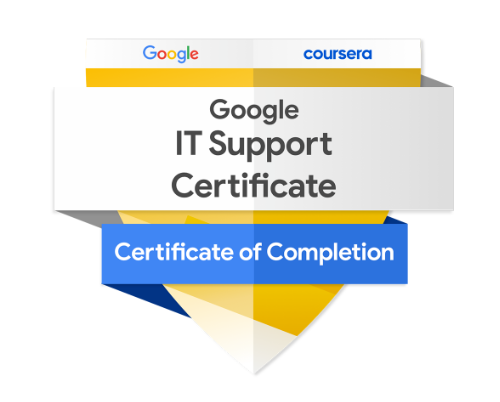
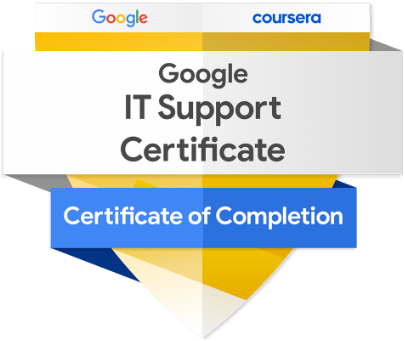
Fixed certification badges and the section is now complete. Updated the contact form to work with formspree and tested functionality.

diff --git a/index.html b/index.html
@@ -101,19 +101,43 @@
             <div class="certifications-container">
               <h4>Certifications</h4>
               <div class="certifications">
-                  <!-- Cert 1 -->
+                  <!-- Cert 1 AWS -->
                   <div class="cert-badge">
-                    <a href="https://www.udacity.com/certificate/PYNTCXJK" target="_blank">
-                        <img src="Images/Certifications/Nanodegree.png" width="150" height="150" alt="Udacity Data Analyst Nanodegree">
+                    <a href="https://www.credly.com/badges/51310572-53c8-43c4-8822-d49db5e1a944/linked_in_profile" target="_blank">
+                        <img src="Images/Certifications/AWS CP.png" width="130" height="130" alt="AWS Cloud Practitioner Certificate">
                     </a>
                   </div>
-                  <!-- Cert 2 -->
-                  <div class="cert-badge>
-                    <a href="https://www.credly.com/badges/51310572-53c8-43c4-8822-d49db5e1a944/linked_in_profile" target="_blank">
-                        <img src="Images/Certifications/AWS CP.png" width="160" height="160" alt="AWS Cloud Practitioner Certificate">
+                  <!-- Cert 2 Nanodegree -->
+                  <div class="cert-badge">
+                    <a href="https://www.udacity.com/certificate/PYNTCXJK" target="_blank">
+                        <img src="Images/Certifications/Nanodegree.png" width="130" height="130" alt="Udacity Data Analyst Nanodegree">
                     </a>
-                  </div>  
-                
+                  </div>
+                  <!-- Cert 3 Project+ -->
+                  <div class="cert-badge">
+                    <a href="https://www.credly.com/badges/f07c26db-89c8-484f-805c-824eaed1cbb5/linked_in_profile" target="_blank">
+                        <img src="Images/Certifications/Project+.png" width="130" height="130" alt="CompTIA Project+ Certificate">
+                    </a>
+                  </div>
+                  <!-- Cert 4 ITIL -->
+                  <div class="cert-badge">
+                    <a href="https://www.peoplecert.org/for-corporations/certificate-verification-service" target="_blank">
+                        <img src="Images/Certifications/ITIL4.png" width="130" height="130" alt="ITIL Foundation Certificate">
+                    </a>
+                  </div>
+                  <!-- Cert 5 CIW -->
+                  <div class="cert-badge">
+                    <a href="https://cp.certmetrics.com/ciwcerts/en/public/verify/credential/53de07882578441384a1ec2a8a30bfe6" target="_blank">
+                        <img src="Images/Certifications/CIW.jpg" width="120" height="120" alt="CIW Data Analyst Specialist Certificate">
+                    </a>
+                  </div>
+                  <!-- Cert 6 Google IT -->  
+                  <div class="cert-badge">
+                    <a href="https://www.credly.com/badges/4a7d4752-eb0a-4c03-8c67-96dcc66715d3?source=linked_in_profile" target="_blank">
+                        <img src="Images/Certifications/Google IT.png" width="130" height="120" alt="Google IT Support Certification">
+                    </a>
+                  </div>
+
               </div>
             </div>          
           </div>
@@ -277,7 +301,7 @@
             <h2 class="white-text">Contact Me</h2>
           </div>
           <div class="contact content-body">
-            <form method="POST" action="https://formspree.io/email@email.com">
+            <form method="POST" action="https://formspree.io/f/xvoevrwq">
                 <input type="hidden" name="_subject" value="Contact request from personal website" />
                 <input type="email" name="_replyto" placeholder="Your email" required>
                 <textarea name="message" placeholder="Your message" required></textarea>

diff --git a/style.css b/style.css
@@ -217,24 +217,33 @@ body {
   }
   
   .certifications-container {
-    text-align: left; /* left-align the content */
+    text-align: left; /* Center-align the content */
     margin-top: 20px; /* Add some space between the job title and certifications */
-}
-
+  }
+  
   .certifications {
     display: flex;
     flex-wrap: wrap; /* Allow badges to wrap if they exceed the container width */
-    justify-content: left; /* left-align the badges */
+    justify-content: center; /* Center-align the badges */
     gap: 20px; /* Adjust the spacing between badges */
-}
-
+  }
+  
   .cert-badge {
     flex: 0 0 auto;
-    width: 150px; /* Set the width of each badge */
-    height: 150px; /* Set the height of each badge */
+    width: 150px; /* Set the width of each badge container */
+    height: 150px; /* Set the height of each badge container */
     overflow: hidden;
     margin-top: 20px;
-}
+    display: flex; /* Align badge content vertically and horizontally */
+    justify-content: center;
+    align-items: center;
+  }
+  
+  .cert-badge img {
+    max-width: 100%; /* Ensure badge images maintain aspect ratio */
+    max-height: 100%; /* Ensure badge images maintain aspect ratio */
+  }
+  
 
 
   /*PROJECTS*/
